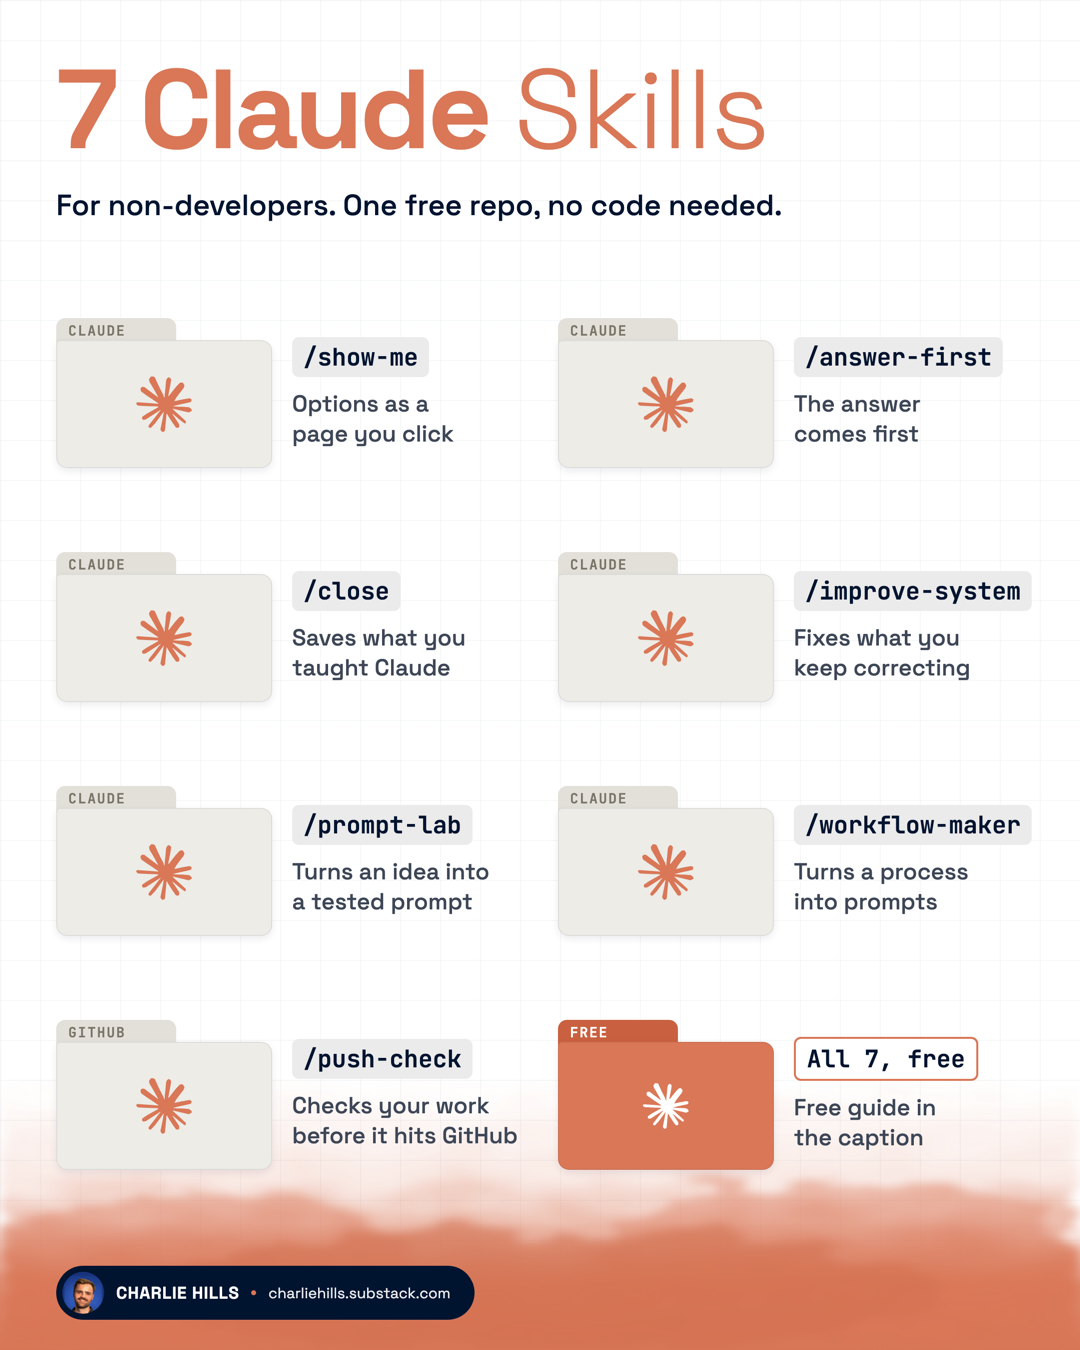
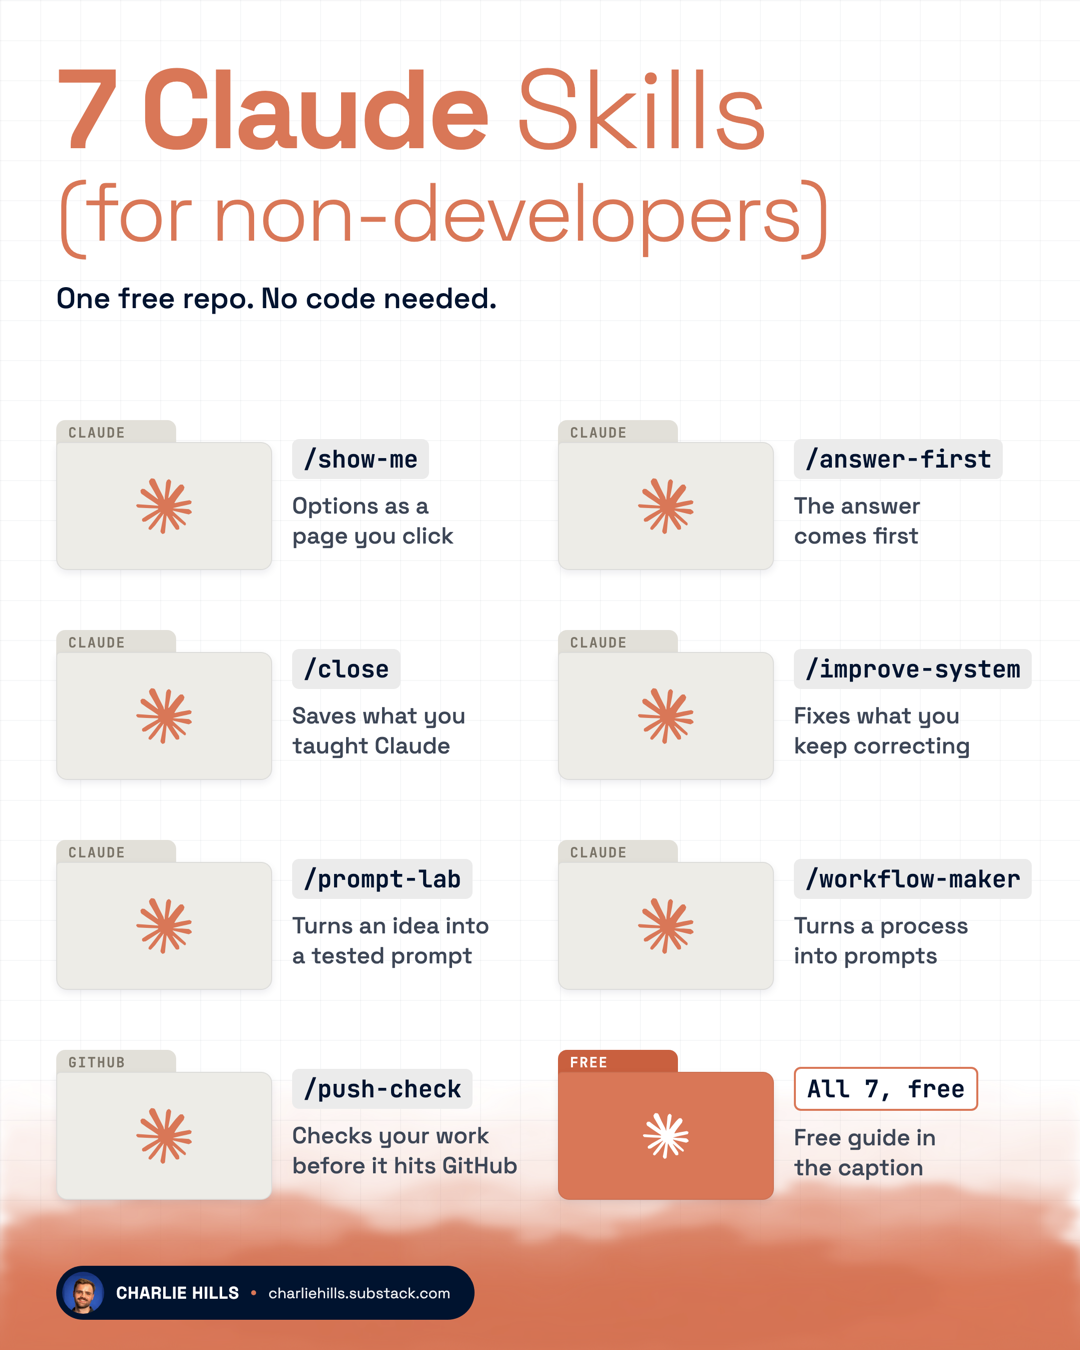
Update hero image: 7 Claude Skills (for non-developers)

diff --git a/README.md b/README.md
@@ -1,6 +1,6 @@
 # Skills for Everyone
 
-<p align="center"><img src="assets/hero.png" alt="7 Claude Skills for Non-Developers" width="540"></p>
+<p align="center"><img src="assets/hero.png" alt="7 Claude Skills (for non-developers)" width="540"></p>
 
 [![skills.sh](https://skills.sh/b/charlie947/skills-for-everyone)](https://skills.sh/charlie947/skills-for-everyone)
 
@@ -74,7 +74,7 @@ You should see nothing. That is normal. A skill you already had with the same na
 
 Download a skill folder from this page and zip it. In the Claude app, open Customize, then Skills, click "+", choose "Create skill", then "Upload a skill". Every plan can upload skills, including Free.
 
-Three skills read or write files on your computer, so they need Claude Code: `show-me`, `close` and `improve-system`. The other four work in the app, using anything you paste in or the connectors you have switched on (Gmail, Calendar, Notion and so on).
+Four skills read or write files on your computer, so they need Claude Code: `show-me`, `close`, `improve-system` and `push-check`. The other three work in the app, using anything you paste in or the connectors you have switched on (Gmail, Calendar, Notion and so on).
 
 </details>
 
